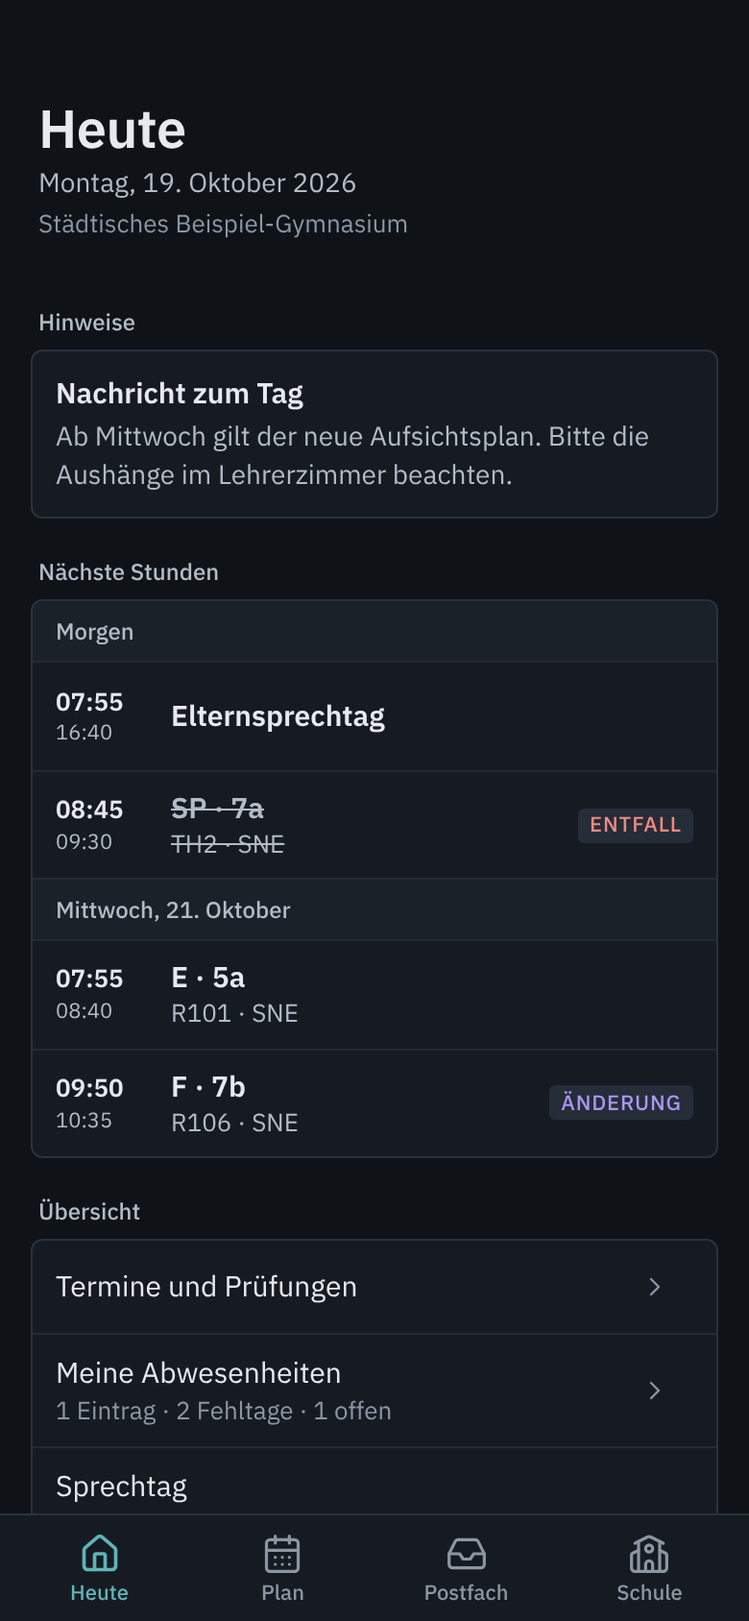
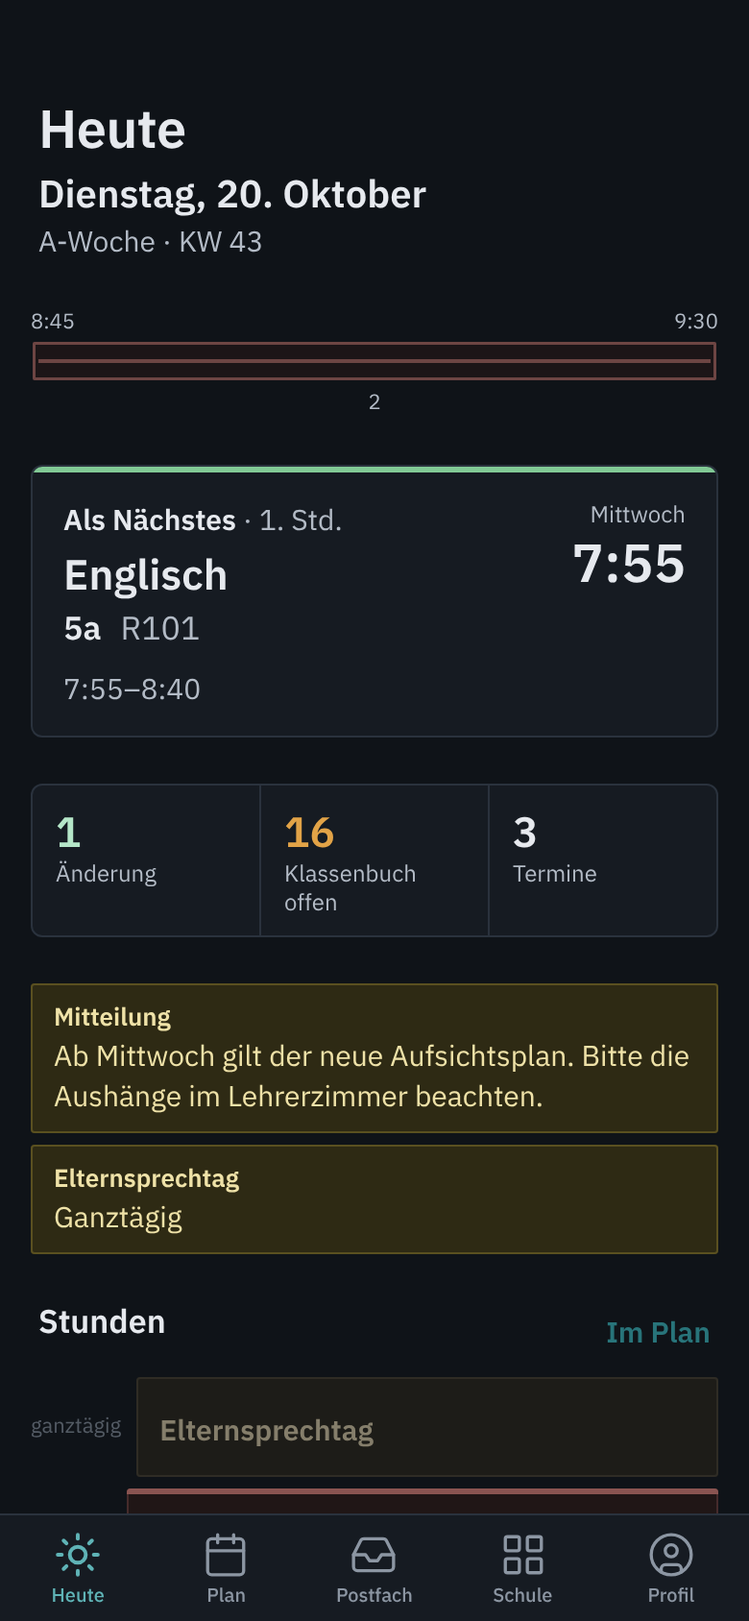
EduOrga Mobile wie die iOS-App: fünf Reiter (Heute, Plan, Postfach, Schule, Profil), Plankopf mit Zeitraum und Kalenderknopf, Planleiste (Agenda, Woche, Tag, Nur Änderungen, Auswahl und Filter), Agenda, Heute als Tagesbriefing mit Ferien über api/web/heute; Tests, Bildschirmfotos und Vergleich mit d

diff --git a/mobile/src/UntPlanMobile/wwwroot/assets/js/ansichten.js b/mobile/src/UntPlanMobile/wwwroot/assets/js/ansichten.js
@@ -72,7 +72,9 @@ function art(c){
   if (c.blockType === 'change' || (c.changed || []).length) return 'aend';
   return 'normal';
 }
-const findetStatt = c => !istEntfall(c) && !istFeld(c) && !istAufsicht(c) && c.blockType !== 'standby';
+/* Ganztägiger Termin (Elternsprechtag, Projekttag): ohne Stunde, über den ganzen Tag */
+const ganztaegig = c => !!c.fullday || (['event', 'gs', 'absence'].includes(c.blockType) && (c.span || 1) >= 6);
+const findetStatt = c => !istEntfall(c) && !istFeld(c) && !istAufsicht(c) && c.blockType !== 'standby' && !ganztaegig(c);
 const fachfarbe = c => (c.color && /^#?[0-9a-f]{6}$/i.test(c.color)) ? (c.color[0] === '#' ? c.color : '#' + c.color) : '';
 /* Farbe des Streifens oben: Status vor Fachfarbe; regulär ohne Fachfarbe und offen ohne Streifen. */
 function streifen(c){
@@ -184,7 +186,8 @@ function kopfHtml(heuteIso, h, frei){
 
 /* Tagesband: der Schultag als Leiste, je Stunde ein Abschnitt nach seiner Dauer, Jetzt-Linie, Aufsichten als Marke. */
 function bandHtml(karten, istHeute){
-  const stunden = karten.filter(c => !istAufsicht(c) && !istFeld(c) && c.blockType !== 'ganztag').map(c => ({ c, z: zeiten(c) }))
+  /* ohne ganztägige Termine (wie iOS) – sie stehen als Zeile in den Stunden */
+  const stunden = karten.filter(c => !istAufsicht(c) && !istFeld(c) && !ganztaegig(c)).map(c => ({ c, z: zeiten(c) }))
     .filter(x => x.z.bis > x.z.von).sort((a, b) => a.z.von - b.z.von);
   if (!stunden.length) return '';
   /* gleichzeitige Stunden zusammenfassen: Änderung vor regulär */
@@ -337,7 +340,7 @@ function stundenHtml(karten, titel, istHeute, kind, tagIso){
       const a = art(c), s = streifen(c);
       return `<button type="button" class="h-zeile${vorbei ? ' is-vorbei' : ''}" data-oeffnen="${esc(c.date)}|${c.lesson}|${c._uid ?? ''}"
           aria-label="${esc((laeuft ? 'Läuft gerade. ' : vorbei ? 'Vorbei. ' : '') + satz(c, z))}">
-        <span class="h-zeit"><b class="${laeuft ? 'is-jetzt' : ''}">${uhr(z.von)}</b><small>${uhr(z.bis)}</small></span>
+        <span class="h-zeit">${ganztaegig(c) ? '<small>ganztägig</small>' : `<b class="${laeuft ? 'is-jetzt' : ''}">${uhr(z.von)}</b><small>${uhr(z.bis)}</small>`}</span>
         <span class="h-karte h-karte--${a}${laeuft ? ' is-jetzt' : ''}">${s ? `<i class="h-streifen" style="background:${s}"></i>` : ''}
           <span class="h-karte__haupt"><b class="h-fach">${a === 'ev' ? esc(c.subject || c.type || 'Termin') : fachHtml(c)}</b>
             ${a === 'ev' ? '' : `<span class="h-neben">${nebenzeile(c, kind)}</span>`}</span>
@@ -540,13 +543,13 @@ function agenda(byDate){
     for (const { c, z } of zeilen){
       const a = istAufsicht(c) ? 'auf' : art(c);
       const vorbei = istHeute && z.bis <= m, laeuft = istHeute && findetStatt(c) && z.von <= m && m < z.bis;
-      const nr = istAufsicht(c) || !c.lesson ? '' : ((c.span || 1) > 1 ? `${c.lesson}–${c.lesson + c.span - 1}` : `${c.lesson}`);
+      const nr = istAufsicht(c) || !c.lesson || ganztaegig(c) ? '' : ((c.span || 1) > 1 ? `${c.lesson}–${c.lesson + c.span - 1}` : `${c.lesson}`);
       const s = a === 'auf' ? '' : streifen(c);
       inhalt.push(`<button type="button" class="ag-zeile ag-zeile--${a}${vorbei ? ' is-vorbei' : ''}${laeuft ? ' is-jetzt' : ''}" data-ag="${d}|${c.lesson}|${c._uid}"
           aria-label="${esc((laeuft ? 'Läuft gerade. ' : '') + (a === 'auf' ? `Pausenaufsicht ${c.subject || ''}, ${uhr(z.von)} bis ${uhr(z.bis)} Uhr.` : satz(c, z)))}">
         ${s ? `<i class="h-streifen" style="background:${s}"></i>` : ''}
         <span class="ag-nr">${nr}</span>
-        <span class="ag-zeit"><span>${c.fullday ? 'ganz-' : uhr(z.von)}</span><span>${c.fullday ? 'tägig' : uhr(z.bis)}</span></span>
+        <span class="ag-zeit"><span>${ganztaegig(c) ? 'ganz-' : uhr(z.von)}</span><span>${ganztaegig(c) ? 'tägig' : uhr(z.bis)}</span></span>
         <span class="ag-haupt"><b>${a === 'auf' ? 'Aufsicht' : a === 'ev' ? esc(c.subject || c.type || 'Termin') : fachHtml(c)}</b>
           <span class="h-neben">${a === 'auf' ? `<span>${esc(c.subject || '')}</span>` : a === 'ev' ? `<span>${esc([c.class, c.room].filter(Boolean).join(' · '))}</span>` : nebenzeile(c, kind)}</span></span>
         <span class="ag-rechts">${a === 'auf' ? '' : rechts(c, laeuft)}</span>

diff --git a/mobile/src/UntPlanMobile/wwwroot/assets/css/app.css b/mobile/src/UntPlanMobile/wwwroot/assets/css/app.css
@@ -2999,7 +2999,7 @@ body.show-card-times .card__times{ display:flex; }
 .ag-tag{ display:grid; grid-template-columns:44px minmax(0,1fr); gap:10px; padding:10px 0; border-bottom:1px solid var(--up-rand); }
 .ag-tag:last-child{ border-bottom:0; }
 .ag-datum{ display:flex; flex-direction:column; align-items:flex-start; padding-top:2px; color:var(--up-text); text-align:left; }
-.ag-datum b{ font-size:22px; font-weight:700; line-height:26px; font-variant-numeric:tabular-nums; }
+.ag-datum b{ font-size:22px; font-weight:600; line-height:26px; font-variant-numeric:tabular-nums; }
 .ag-datum span{ font-size:12px; color:var(--up-text-2); }
 .ag-tag.is-heute .ag-datum, .ag-tag.is-heute .ag-datum span{ color:var(--up-akzent); }
 .ag-liste{ display:flex; flex-direction:column; gap:4px; min-width:0; }
@@ -3010,7 +3010,7 @@ body.show-card-times .card__times{ display:flex; }
 .ag-nr{ font-size:20px; font-weight:400; text-align:center; font-variant-numeric:tabular-nums; }
 .ag-zeit{ display:flex; flex-direction:column; font-size:11px; line-height:13px; color:var(--up-text-2); font-variant-numeric:tabular-nums; }
 .ag-haupt{ min-width:0; display:flex; align-items:baseline; gap:10px; flex-wrap:wrap; row-gap:0; }
-.ag-haupt > b{ font-size:15px; font-weight:700; }
+.ag-haupt > b{ font-size:15px; font-weight:600; }
 .ag-haupt .h-neben{ font-size:13px; }
 .ag-rechts{ font-size:12px; }
 .ag-zeile--aend{ background:var(--up-aenderung-flaeche); box-shadow:inset 0 0 0 1px color-mix(in srgb, var(--st-aenderung) 45%, transparent); }
@@ -3147,3 +3147,9 @@ body.show-card-times .card__times{ display:flex; }
 .heute__fuss .is-alt{ color:var(--st-pruefung); }
 @media (prefers-reduced-motion: reduce){ .planleiste__kapsel button, .heute__mehr .ico{ transition:none; } }
 @media (min-width:700px){ .planleiste{ bottom:16px; } }
+/* die frühere Startansicht bleibt nur als Rückfall im Dokument */
+.heute #startNews, .heute #startNext{ display:none !important; }
+/* Stundendetails wie iOS: weißer Kopf ohne Balken, Fachfarbe nur als kleines Quadrat vor dem Fach; Entfall ohne Schraffur */
+.dhead--fach{ padding-left:16px; }
+.dhead--fach::before{ left:16px; top:auto; bottom:auto; width:0; height:0; display:none; }
+.dhead.is-off{ background-image:none; background-color:var(--up-entfall-flaeche); }

diff --git a/mobile/src/UntPlanMobile/wwwroot/assets/js/app.js b/mobile/src/UntPlanMobile/wwwroot/assets/js/app.js
@@ -1249,7 +1249,7 @@ function tagesPunkt(d){
 /* Zeitraum unter dem Plannamen (wie iOS): „KW 43 · Okt. 2026 · A-Woche“, im Tag „Di 20.10.2026“; mit „Nur Änderungen“
    dahinter „· Änderungen“ in Petrol. */
 const MONATE_KURZ = ['Jan.', 'Feb.', 'März', 'Apr.', 'Mai', 'Juni', 'Juli', 'Aug.', 'Sept.', 'Okt.', 'Nov.', 'Dez.'];
-function zeitraumSetzen(){
+function planZeitraumSetzen(){
   const el = $('#planZeitraum');
   if (!el) return;
   let text;
@@ -1266,7 +1266,7 @@ function zeitraumSetzen(){
 }
 
 function renderWeekHead(){
-  zeitraumSetzen();
+  planZeitraumSetzen();
   const dates = weekDates(state.weekStart);
   const mo = parseISO(state.weekStart);
   /* In der Tagesansicht gelten KW und Monat für den gezeigten Tag. */
@@ -1517,7 +1517,7 @@ function gefiltert(byDate){
 
 function renderGrid(){
   ansichtKlasse();
-  zeitraumSetzen();
+  planZeitraumSetzen();
   if (state.view === 'agenda'){
     const around = state.around || {};
     state.allByDate = Object.assign({}, (around.prev || {}).byDate, state.week.byDate, (around.next || {}).byDate);
@@ -8806,7 +8806,7 @@ $$('#planSeg button').forEach(b => b.addEventListener('click', () => {
 function nurAenderungenSetzen(an){
   state.opts.nurAenderungen = !!an;
   store.set('nurAenderungen', state.opts.nurAenderungen);
-  planSegSetzen(); zeitraumSetzen(); renderGrid();
+  planSegSetzen(); planZeitraumSetzen(); renderGrid();
   if (typeof markMenuView === 'function') markMenuView();
 }
 { const b = $('#btnNurAenderungen'); if (b) b.addEventListener('click', () => { buzz(); nurAenderungenSetzen(!state.opts.nurAenderungen); toast(state.opts.nurAenderungen ? 'Nur Änderungen' : 'Alle Stunden'); }); }

diff --git a/mobile/tests/UntPlanMobile.Tests/IosAngleichungTests.cs b/mobile/tests/UntPlanMobile.Tests/IosAngleichungTests.cs
@@ -1,0 +1,98 @@
+using System.Net;
+using System.Text.RegularExpressions;
+
+namespace UntPlanMobile.Tests;
+
+/// <summary>
+/// EduOrga Mobile wie die iOS-App (ios/UntPlanNext/Neu/**): fünf Reiter, Plan mit Kopf „Mein Plan ▾ / KW · Monat · A-Woche“ und
+/// Planleiste (Agenda | Woche | Tag, „Nur Änderungen“, „Auswahl und Filter“), Agenda, „Heute“ als Tagesbriefing mit Ferien
+/// (api/web/heute → EduOrga Web /api/app/heute, Feld kalender) und Profil als eigener Reiter.
+/// </summary>
+public class IosAngleichungTests
+{
+    private static string Datei(params string[] teile) => File.ReadAllText(Path.Combine(new[] { Umgebung.Wurzel(), "mobile", "src", "UntPlanMobile" }.Concat(teile).ToArray()));
+    private static string Js(string name) => Datei("wwwroot", "assets", "js", name);
+
+    [Fact]
+    public async Task Heute_kommt_mit_Kalender_ueber_die_Durchreichung()
+    {
+        await using var u = await Umgebung.StartenAsync();
+        using var anonym = u.Client();
+        Assert.Equal(HttpStatusCode.Unauthorized, (await anonym.GetAsync("/api/web/heute")).StatusCode);
+        using var c = await u.AngemeldetAsync("sne");
+        var h = await Umgebung.HolenAsync(c, "/api/web/heute");
+        Assert.Equal("2026-10-14", h["datum"]!.GetValue<string>());
+        var k = h["kalender"]!;
+        Assert.Equal("2026-10-14", k["heute"]!.GetValue<string>());
+        Assert.Null(k["frei"]);
+        Assert.Equal("Herbstferien", k["naechsteFerien"]!["name"]!.GetValue<string>());
+        Assert.Equal("2026-10-17", k["naechsteFerien"]!["von"]!.GetValue<string>());
+        // nur lesen: schreibende Aufrufe sind nicht freigegeben
+        Assert.False(UntPlanMobile.Api.WebApi.Erlaubt("POST", "heute"));
+    }
+
+    [Fact]
+    public async Task Woche_nennt_den_Wochenbuchstaben_fuer_den_Untertitel()
+    {
+        await using var u = await Umgebung.StartenAsync();
+        using var c = await u.AngemeldetAsync("sne");
+        var w = await Umgebung.HolenAsync(c, "/api/mobile?action=week&date=2026-10-14&type=mine");
+        Assert.Matches("^[A-Z]$", w["woche"]!.GetValue<string>());
+    }
+
+    [Fact]
+    public void Fuenf_Reiter_Planleiste_Agenda_und_Profil()
+    {
+        var html = Datei("Vorlagen", "index.html");
+        var leiste = html[html.IndexOf("<nav class=\"tabbar", StringComparison.Ordinal)..html.IndexOf("</nav>", html.IndexOf("<nav class=\"tabbar", StringComparison.Ordinal), StringComparison.Ordinal)];
+        Assert.Equal(new[] { "start", "plan", "msg", "profile", "konto" }, Regex.Matches(leiste, "data-screen=\"([a-z]+)\"").Select(m => m.Groups[1].Value));
+        foreach (var s in new[] { "#i-sun", "#i-calendar\"", "#i-inbox", "#i-layout-grid", "#i-circle-user" }) Assert.Contains(s, leiste);
+        Assert.Contains("id=\"msgZahl\"", leiste);
+        // Symbole stehen in der Sammlung
+        var sprite = Datei("wwwroot", "assets", "icons", "symbole-sprite.svg");
+        foreach (var s in new[] { "sun", "calendar", "layout-grid", "circle-user", "triangle", "sliders-horizontal", "list", "calendar-range", "rectangle-vertical" })
+            Assert.Contains($"id=\"i-{s}\"", sprite);
+        // Plan: Kopf mit Zeitraum und Kalenderknopf, Planleiste unten, Agenda
+        Assert.Contains("id=\"planZeitraum\"", html);
+        Assert.Contains("id=\"btnKalender\"", html);
+        Assert.Contains("class=\"planleiste\"", html);
+        Assert.Contains("data-v=\"agenda\"", html);
+        Assert.Contains("id=\"btnNurAenderungen\"", html);
+        Assert.Contains("id=\"agenda\"", html);
+        Assert.Contains("aria-label=\"Auswahl und Filter\"", html);
+        // Profil als eigener Bildschirm, Schule ohne Konto
+        Assert.Contains("id=\"screenKonto\"", html);
+        var schule = html[html.IndexOf("id=\"screenProfile\"", StringComparison.Ordinal)..html.IndexOf("id=\"screenKonto\"", StringComparison.Ordinal)];
+        Assert.DoesNotContain("btnSwitchAccount", schule);
+        Assert.Contains("id=\"btnProfilSeite\"", html);
+        // Heute: Tagesbriefing aus ansichten.js, offline in der Hülle
+        Assert.Contains("assets/js/ansichten.js?v=__FASSUNG__", html);
+        Assert.Contains("ansichten.js?v=__FASSUNG__", Datei("Vorlagen", "sw.js"));
+        Assert.Contains("id=\"heuteInhalt\"", html);
+        var js = Js("app.js");
+        Assert.Contains("['agenda', 'day', 'day2', 'day3', 'week']", js);
+        Assert.Contains("function istAbweichung(c)", js);
+        Assert.Contains("window.EDOAnsichten.agenda(gefiltert(state.week.byDate || {}))", js);
+        Assert.Contains("function planZeitraumSetzen()", js);
+        Assert.Contains("function tagesPunkt(d)", js);
+        var a = Js("ansichten.js");
+        foreach (var m in new[] { "function bandHtml(", "function fokusHtml(", "function zahlenHtml(", "function ferienHtml(", "function kalenderHtml(", "function agenda(",
+                                  "fetch(API + 'heute'", "'Vertretung folgt'", "Klassenbuch erfassen", "Nächster Schultag", "Alle ${liste.length} Hinweise der Schule" })
+            Assert.Contains(m, a);
+        var css = Datei("wwwroot", "assets", "css", "app.css");
+        Assert.Contains(".tabbar.tabbar--5{ grid-template-columns:repeat(5, 1fr);", css);
+        Assert.Contains(".planleiste__kapsel button.is-on{ background:var(--up-akzent); color:#fff; }", css);
+        Assert.Contains(".h-seg--pr{ background:var(--up-pruefung-streifen, #b7791f); }", css);
+    }
+
+    [Fact]
+    public void Ansichten_js_ist_gueltiges_Skript_und_ohne_Fremdzugriffe()
+    {
+        var a = Js("ansichten.js");
+        Assert.DoesNotContain("http://", a);
+        Assert.DoesNotContain("https://", a);
+        Assert.DoesNotContain("innerHTML = h.", a);
+        // jede Zeile ein Knopf mit ganzem Satz für Bildschirmleser
+        Assert.Contains("aria-label=\"${esc((laeuft ? 'Läuft gerade. ' : vorbei ? 'Vorbei. ' : '') + satz(c, z))}\"", a);
+    }
+}

diff --git a/mobile/tests/UntPlanMobile.Tests/Sprint27Tests.cs b/mobile/tests/UntPlanMobile.Tests/Sprint27Tests.cs
@@ -257,12 +257,12 @@ public class Sprint27Tests
     public void Navigation_und_Zeilen_nach_dem_Designsystem()
     {
         var html = Datei("Vorlagen", "index.html");
-        // untere Leiste: Heute · Plan · Postfach · Mehr
-        var leiste = html[html.IndexOf("<nav class=\"tabbar\"", StringComparison.Ordinal)..html.IndexOf("</nav>", html.IndexOf("<nav class=\"tabbar\"", StringComparison.Ordinal), StringComparison.Ordinal)];
+        // untere Leiste wie iOS: Heute · Plan · Postfach · Schule · Profil
+        var leiste = html[html.IndexOf("<nav class=\"tabbar", StringComparison.Ordinal)..html.IndexOf("</nav>", html.IndexOf("<nav class=\"tabbar", StringComparison.Ordinal), StringComparison.Ordinal)];
         var reiter = Regex.Matches(leiste, @"<span( id=""[^""]+"")?>([^<]+)</span>").Select(m => m.Groups[2].Value).ToArray();
-        // „Mehr“ heißt für Lehrkräfte „Schule“ (schule.js setzt den Text nach der Rolle)
-        Assert.Equal(new[] { "Heute", "Plan", "Postfach", "Mehr" }, reiter);
-        Assert.Contains("tabText = R.kollegium ? 'Schule' : 'Mehr'", Datei("wwwroot", "assets", "js", "schule.js"));
+        // „Schule“ für alle Rollen (Profil ist ein eigener Reiter)
+        Assert.Equal(new[] { "Heute", "Plan", "Postfach", "Schule", "Profil" }, reiter);
+        Assert.Contains("const tabText = 'Schule';", Datei("wwwroot", "assets", "js", "schule.js"));
         // alle bisherigen Funktionen bleiben erreichbar
         foreach (var id in new[] { "btnSwitchAccount", "btnAddProfile", "themeSeg", "optCardTimes", "optLongNames", "optShowCancelled",
                                    "optNotify", "btnRefresh", "btnLogout", "btnAppointments", "btnAbsences", "btnClassLead", "btnSprechtag",

diff --git a/mobile/README.md b/mobile/README.md
@@ -10,13 +10,22 @@ wird mit dem Konto von EduOrga Web. Marke, Farben und Logo: [`design/MARKE.md`](
 > Unterstützung von Claude (Anthropic). Jede Schule bzw. jeder Betreiber ist für Einsatz, Betrieb und Datenschutz
 > selbst verantwortlich.
 
-| Woche (Standard) | Tag | Stundendetails | Parallele Stunden („+X“) |
-|---|---|---|---|
-| ![Woche](docs/bilder/plan-woche.png) | ![Tag](docs/bilder/plan-tag.png) | ![Stundendetails](docs/bilder/stundendetails.png) | ![Parallele Stunden](docs/bilder/parallel.png) |
+**Wie die iOS-App:** Aufbau, Reiter, Planbedienung und „Heute“ folgen den SwiftUI-Quellen in `ios/UntPlanNext/Neu/**`
+(design/DESIGN.md, Abschnitte 10 und 10.1) – web-nativ, aber fast deckungsgleich. Vergleich mit dem HTML-Entwurf der iOS-Seiten:
 
-| Heute | Schule (Lehrkraft) | Klassenbuch | Offene Stunden |
-|---|---|---|---|
-| ![Heute](docs/bilder/heute.png) | ![Schule](docs/bilder/schule.png) | ![Klassenbuch](docs/bilder/klassenbuch.png) | ![Offene Stunden](docs/bilder/offene-stunden.png) |
+![iOS und PWA nebeneinander](docs/bilder/vergleich-ios-pwa.png)
+
+| Heute | Heute in den Ferien | Woche (Standard) | Tag | Agenda |
+|---|---|---|---|---|
+| ![Heute](docs/bilder/heute.png) | ![Ferien](docs/bilder/heute-ferien.png) | ![Woche](docs/bilder/plan-woche.png) | ![Tag](docs/bilder/plan-tag.png) | ![Agenda](docs/bilder/plan-agenda.png) |
+
+| Stundendetails | Klassenbuch der Stunde | Auswahl und Filter | Schule | Profil |
+|---|---|---|---|---|
+| ![Stundendetails](docs/bilder/stundendetails.png) | ![Klassenbuch](docs/bilder/stundendetails-klassenbuch.png) | ![Filter](docs/bilder/menue.png) | ![Schule](docs/bilder/schule.png) | ![Profil](docs/bilder/profil.png) |
+
+| Parallele Stunden („+X“) | Klassenbuch (Schule) | Offene Stunden |
+|---|---|---|
+| ![Parallele Stunden](docs/bilder/parallel.png) | ![Klassenbuch](docs/bilder/klassenbuch.png) | ![Offene Stunden](docs/bilder/offene-stunden.png) |
 
 | Klassenbucheinträge | Schüler*innen | Prüfungen | Vertretungsplan |
 |---|---|---|---|
@@ -30,30 +39,31 @@ wird mit dem Konto von EduOrga Web. Marke, Farben und Logo: [`design/MARKE.md`](
 |---|---|---|---|
 | ![Mehr Eltern](docs/bilder/mehr-eltern.png) | ![Abwesenheiten](docs/bilder/abwesenheiten-eltern.png) | ![Hausaufgaben](docs/bilder/hausaufgaben-eltern.png) | ![Neuigkeiten](docs/bilder/neuigkeiten.png) |
 
-| Profil | Über EduOrga Mobile | Anmeldung | Postfach |
-|---|---|---|---|
-| ![Profil](docs/bilder/profil.png) | ![Über](docs/bilder/ueber.png) | ![Anmeldung](docs/bilder/anmeldung.png) | ![Postfach](docs/bilder/postfach.png) |
+| Über EduOrga Mobile | Anmeldung | Postfach | Plan auswählen | Kennzeichnungen | Termine |
+|---|---|---|---|---|---|
+| ![Über](docs/bilder/ueber.png) | ![Anmeldung](docs/bilder/anmeldung.png) | ![Postfach](docs/bilder/postfach.png) | ![Planauswahl](docs/bilder/planauswahl.png) | ![Kennzeichnungen](docs/bilder/zeichenerklaerung.png) | ![Termine](docs/bilder/termine.png) |
 
-| Plan auswählen | Menü des Plans | Kennzeichnungen | Termine |
-|---|---|---|---|
-| ![Planauswahl](docs/bilder/planauswahl.png) | ![Menü](docs/bilder/menue.png) | ![Kennzeichnungen](docs/bilder/zeichenerklaerung.png) | ![Termine](docs/bilder/termine.png) |
-
-| Dunkel: Woche | Dunkel: Details | Dunkel: Heute | Dunkel: Schule | Woche 430 × 932 |
+| Dunkel: Heute | Dunkel: Ferien | Dunkel: Woche | Dunkel: Tag | Dunkel: Agenda |
 |---|---|---|---|---|
-| ![Plan dunkel](docs/bilder/dunkel-plan-woche.png) | ![Details dunkel](docs/bilder/dunkel-stundendetails.png) | ![Heute dunkel](docs/bilder/dunkel-heute.png) | ![Schule dunkel](docs/bilder/dunkel-mehr.png) | ![Woche groß](docs/bilder/plan-woche-430.png) |
+| ![Heute dunkel](docs/bilder/dunkel-heute.png) | ![Ferien dunkel](docs/bilder/dunkel-heute-ferien.png) | ![Plan dunkel](docs/bilder/dunkel-plan-woche.png) | ![Tag dunkel](docs/bilder/dunkel-plan-tag.png) | ![Agenda dunkel](docs/bilder/dunkel-plan-agenda.png) |
+
+| Dunkel: Details | Dunkel: Klassenbuch | Dunkel: Schule | Dunkel: Profil | Woche 430 × 932 |
+|---|---|---|---|---|
+| ![Details dunkel](docs/bilder/dunkel-stundendetails.png) | ![Klassenbuch dunkel](docs/bilder/dunkel-klassenbuch.png) | ![Schule dunkel](docs/bilder/dunkel-mehr.png) | ![Profil dunkel](docs/bilder/dunkel-profil.png) | ![Woche groß](docs/bilder/plan-woche-430.png) |
 
 ## Aufbau der App
 
-Untere Leiste **Heute · Plan · Postfach · Schule** (Lehrkräfte) bzw. **Heute · Plan · Postfach · Mehr** (Schüler*innen,
-Eltern); Linien-Symbol und Beschriftung, keine Pillen. Jede Seite hat einen großen Titel, der beim Rollen in eine kompakte
-Kopfzeile übergeht. Hell und dunkel (Automatisch/Hell/Dunkel unter „Mehr“ bzw. „Schule“ → Darstellung).
+Untere Leiste wie iOS für alle Rollen: **Heute · Plan · Postfach · Schule · Profil** (Linien-Symbole Sonne, Kalender, Fach,
+Raster, Person; ungelesene Mitteilungen als kleine Zahl am Postfach), keine Pillen. Jede Seite hat einen großen Titel, der beim
+Rollen in eine kompakte Kopfzeile übergeht. Hell und dunkel (Automatisch/Hell/Dunkel unter „Profil“ → Darstellung).
 
 | Bereich | Inhalt |
 |---|---|
-| **Heute** | Datum, Hinweise des Tages, die nächsten Stunden, Termine und Prüfungen, eigene Abwesenheiten, Klassenleitung, Sprechtag |
-| **Plan** | Woche (Standard) über die ganze Breite oder Tag, Umschalter **Tag · Woche** oben rechts, Wischen = andere Woche bzw. anderer Tag, Aufziehen mit zwei Fingern = Tag, Zusammenziehen = Woche; Menü „⋮“: Gehe zu Datum, 2 bzw. 3 Tage, Abwesenheiten, Kennzeichnungen; Planauswahl (Klasse, Lehrkraft, Raum) über den Titel |
+| **Heute** | Tagesbriefing wie iOS (`assets/js/ansichten.js`): Wochentag und Datum, „A-Woche · KW 43“; **Tagesband** (der Schultag als Leiste mit Jetzt-Linie); **Fokuskarte** „Jetzt“/„Als Nächstes“ mit Restzeit, Fortschritt und – für Lehrkräfte – „Klassenbuch erfassen“; **Tageszahlen** (nur Werte über null: Änderungen, Klassenbuch offen, Aufsichten bzw. Hausaufgaben morgen, neue Nachrichten, Termine); Notizen der Schule; **Stunden** als Stundenkarten v7; **Kalender** (nächste Ferien, Feiertage); **in den Ferien** die Ferienfläche „Herbstferien · bis Samstag, 31.10. · noch 13 Tage“ mit dem nächsten Schultag und dessen Stunden; „Mehr anzeigen“: Termine und Prüfungen, Abwesenheiten, Klassenleitung, Sprechtag; unten „Stand EduOrga Studio“. Daten: eigener Wochenplan und `api/web/heute` (EduOrga Web `/api/app/heute`, Feld `kalender`) |
+| **Plan** | Kopf wie iOS: Planname mittig mit Pfeil (Planauswahl, gesuchte Pläne wie „Mein Plan“), darunter „KW 43 · Okt. 2026 · A-Woche“ (im Tag „Di 20.10.2026“, mit „Nur Änderungen“ „· Änderungen“), rechts der **Kalenderknopf** (Heute, Gehe zu Datum); Tageskopf „17.11“ über „Mo“ mit Punkt (grün Änderungen, rot Entfall). **Planleiste unten**: **Agenda · Woche · Tag**, Dreieck **„Nur Änderungen“**, Regler **„Auswahl und Filter“** (Ansicht inkl. 2/3 Tage, Nur Änderungen, Abwesenheiten, Gehe zu Datum, Kennzeichnungen, Aktualisieren). Wischen = andere Woche bzw. anderer Tag, Aufziehen = Tag, Zusammenziehen = Woche. **Agenda**: die Woche als Liste, je Tag links „19 / Mo“, rechts je Stunde eine Zeile (Nummer, Beginn/Ende, Fach, Klasse/Lehrkraft, Raum, Status) |
 | **Postfach** | Posteingang, Gesendet, Entwürfe; Lesen, Antworten, Schreiben, Löschen, Suche |
-| **Schule / Mehr** | Schulfunktionen nach Rolle (Tabelle unten), danach Konto und Profilwechsel, Darstellung, Benachrichtigungen, App installieren, Daten aktualisieren, Über EduOrga Mobile, Abmelden |
+| **Schule** | Schulfunktionen nach Rolle (Tabelle unten) |
+| **Profil** | Konto und Profilwechsel, Profil und Benachrichtigungen (E-Mail), Darstellung, Benachrichtigungen im Browser, App installieren, Daten aktualisieren, Über EduOrga Mobile, Datenschutz, Abmelden |
 
 ## Funktionen nach Rolle
 

diff --git a/design/DESIGN.md b/design/DESIGN.md
@@ -304,7 +304,7 @@ Musterkarte, rechts Titel, ein Satz und die Tags mit je einem Satz (Liste, keine
   `/api/monitor/…`; `planAktualisiert` auf der Startseite; PWA `studioStand`) = Zeitpunkt der letzten Übertragung aus EduOrga Studio
   (auch reine Vertretungspakete). Vollständiger Zeitpunkt in der Kurzinfo; älter als 24 Stunden an einem Schultag: Zusatz **„Daten evtl.
   nicht aktuell“** (Bernstein, als Text). Orte: Planseite unter der Kalenderwoche, Vertretungsplan, Mein Tag, Monitor (oben rechts),
-  PWA unter dem Plannamen und in „Mehr › Daten aktualisieren“.
+  PWA (wie iOS) unten auf „Heute“ und in „Profil › Daten aktualisieren“.
 
 **Gesuchter Plan wie „Mein Plan“:** Wer einen Plan sucht (Klasse, Lehrkraft, Raum), sieht genau dieselbe Ansicht wie beim eigenen
 Plan (Raster, Woche/Tag, Legende, Bedienung), Titel „Klasse 5a“, „Lehrkraft SNE“ bzw. „Raum R101“, daneben der Knopf **„Mein Plan“**
@@ -462,6 +462,11 @@ Grafik ersetzt Text, Typografie statt Kästen:
 * **Stunden:** je Stunde links Beginn (15) über Ende (11), rechts eine Stundenkarte v7 mit zwei Zeilen – **Fach 17/600**, darunter
   Klasse bzw. Lehrkraft und Raum (15, geänderte Werte grün 600 „105 (3̶0̶3̶)“) –, rechts „entfällt“/„verlegt …“, „PRÜFUNG“ bzw.
   „jetzt“; 6 pt Abstand; laufende Stunde mit 2-pt-Petrol-Rahmen, vergangene 55 %. Große Schrift (Bedienungshilfen): untereinander.
+* **EduOrga Mobile (PWA) folgt iOS fast 1:1** (`mobile/.../assets/js/ansichten.js`, `app.css` Abschnitt „Angleichung an die iOS-App“):
+  fünf Reiter **Heute · Plan · Postfach · Schule · Profil**, Plankopf „Mein Plan ▾ / KW 43 · Okt. 2026 · A-Woche“ mit Kalenderknopf,
+  Planleiste unten (Agenda | Woche | Tag, „Nur Änderungen“, „Auswahl und Filter“), Agenda, dieselbe Seite „Heute“ (Daten über
+  `api/web/heute`), Stundendetails mit **Details | Klassenbuch**. Ohne Glas/Weichzeichner: die schwebende Leiste ist eine deckende
+  Fläche (94 %) mit 1-px-Rand und flachem Schatten.
 * **Entwurf zum Ansehen ohne Xcode:** HTML-Nachbau 390 × 844 (hell/dunkel) der Seiten Heute (Schultag, Ferien) und Woche –
   Bildschirmfotos in `ios/docs/bilder/entwurf-v7-*.png`.
 
